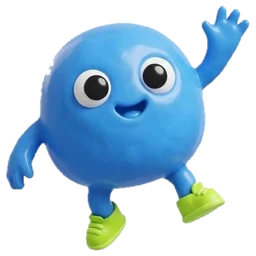
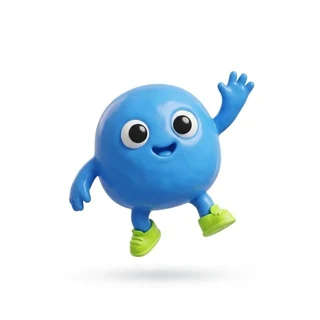
Show Tos with its original white background in both themes
Claude-Session: https://claude.ai/code/session_01Bz4qVc9zGNdAcziBRU6udS

diff --git a/app/globals.css b/app/globals.css
@@ -221,9 +221,8 @@ h2 em{font-style:normal;color:var(--gold-text)}
 .apps{display:grid;grid-template-columns:repeat(auto-fill,minmax(min(100%,300px),1fr));gap:22px}
 .app-card{display:flex;flex-direction:column;background:var(--panel);border:3px solid var(--line);border-radius:6px;box-shadow:6px 6px 0 var(--shadow);overflow:hidden;color:inherit;text-decoration:none;transition:transform .12s steps(2),border-color .12s}
 .app-card:hover{transform:translate(-3px,-3px);border-color:var(--sky)}
-.app-stage{position:relative;display:grid;place-items:center;height:200px;background:radial-gradient(circle at 50% 55%,rgba(109,179,255,.45),transparent 62%),repeating-linear-gradient(0deg,transparent 0 15px,rgba(109,179,255,.08) 15px 16px),repeating-linear-gradient(90deg,transparent 0 15px,rgba(109,179,255,.08) 15px 16px),var(--panel-2);border-bottom:3px solid var(--line)}
-.app-stage::after{content:"";position:absolute;bottom:22px;left:50%;width:90px;height:12px;margin-left:-45px;border-radius:50%;background:rgba(6,7,26,.35);filter:blur(2px);animation:tosShadow 2.6s ease-in-out infinite}
-.app-stage img{position:relative;z-index:1;width:150px;height:150px;object-fit:contain;animation:tosFloat 2.6s ease-in-out infinite;transform-origin:50% 80%}
+.app-stage{position:relative;display:grid;place-items:center;height:210px;background:#fff;border-bottom:3px solid var(--line);overflow:hidden}
+.app-stage img{width:210px;height:210px;object-fit:contain;animation:tosFloat 2.6s ease-in-out infinite;transform-origin:50% 80%}
 .app-card:hover .app-stage img{animation:tosWave .5s ease-in-out 2}
 @keyframes tosFloat{0%,100%{transform:translateY(0) rotate(-3deg)}50%{transform:translateY(-14px) rotate(3deg)}}
 @keyframes tosShadow{0%,100%{transform:scale(1);opacity:1}50%{transform:scale(.75);opacity:.6}}
@@ -239,9 +238,9 @@ h2 em{font-style:normal;color:var(--gold-text)}
 .back:hover{border-color:var(--sky)}
 .app-hero{display:grid;grid-template-columns:minmax(0,1fr) minmax(0,1.1fr);gap:clamp(24px,5vw,64px);align-items:center}
 @media (max-width:760px){.app-hero{grid-template-columns:1fr}}
-.app-hero-stage{position:relative;display:grid;place-items:center;aspect-ratio:1;max-width:460px;width:100%;margin-inline:auto;border:3px solid var(--line);border-radius:8px;box-shadow:8px 8px 0 var(--shadow);background:radial-gradient(circle at 50% 50%,rgba(109,179,255,.5),transparent 60%),repeating-linear-gradient(0deg,transparent 0 23px,rgba(109,179,255,.1) 23px 24px),repeating-linear-gradient(90deg,transparent 0 23px,rgba(109,179,255,.1) 23px 24px),var(--panel-2);overflow:hidden}
-.app-hero-img{position:relative;z-index:1;width:78%;height:auto;max-width:100%;animation:tosFloat 3s ease-in-out infinite;transform-origin:50% 80%}
-.app-hero-shadow{position:absolute;bottom:9%;left:50%;width:44%;height:5%;margin-left:-22%;border-radius:50%;background:rgba(6,7,26,.35);filter:blur(3px);animation:tosShadow 3s ease-in-out infinite}
+.app-hero-stage{position:relative;display:grid;place-items:center;aspect-ratio:1;max-width:460px;width:100%;margin-inline:auto;border:3px solid var(--line);border-radius:8px;box-shadow:8px 8px 0 var(--shadow);background:#fff;overflow:hidden}
+.app-hero-img{width:100%;height:auto;max-width:100%;animation:tosFloat 3s ease-in-out infinite;transform-origin:50% 80%}
+.app-hero-shadow{display:none}
 .app-title{margin:0;font-family:var(--f-display);font-weight:700;font-size:clamp(56px,10vw,120px);line-height:1;color:var(--sky);text-shadow:4px 0 0 var(--plum),-4px 0 0 var(--plum),0 4px 0 var(--plum),0 -4px 0 var(--plum),0 9px 0 rgba(20,10,40,.45)}
 .app-hero-tagline{margin:18px 0 16px;font-size:clamp(19px,2.2vw,24px);line-height:1.5;max-width:30ch}
 .app-hero-text .chip{display:inline-block}
